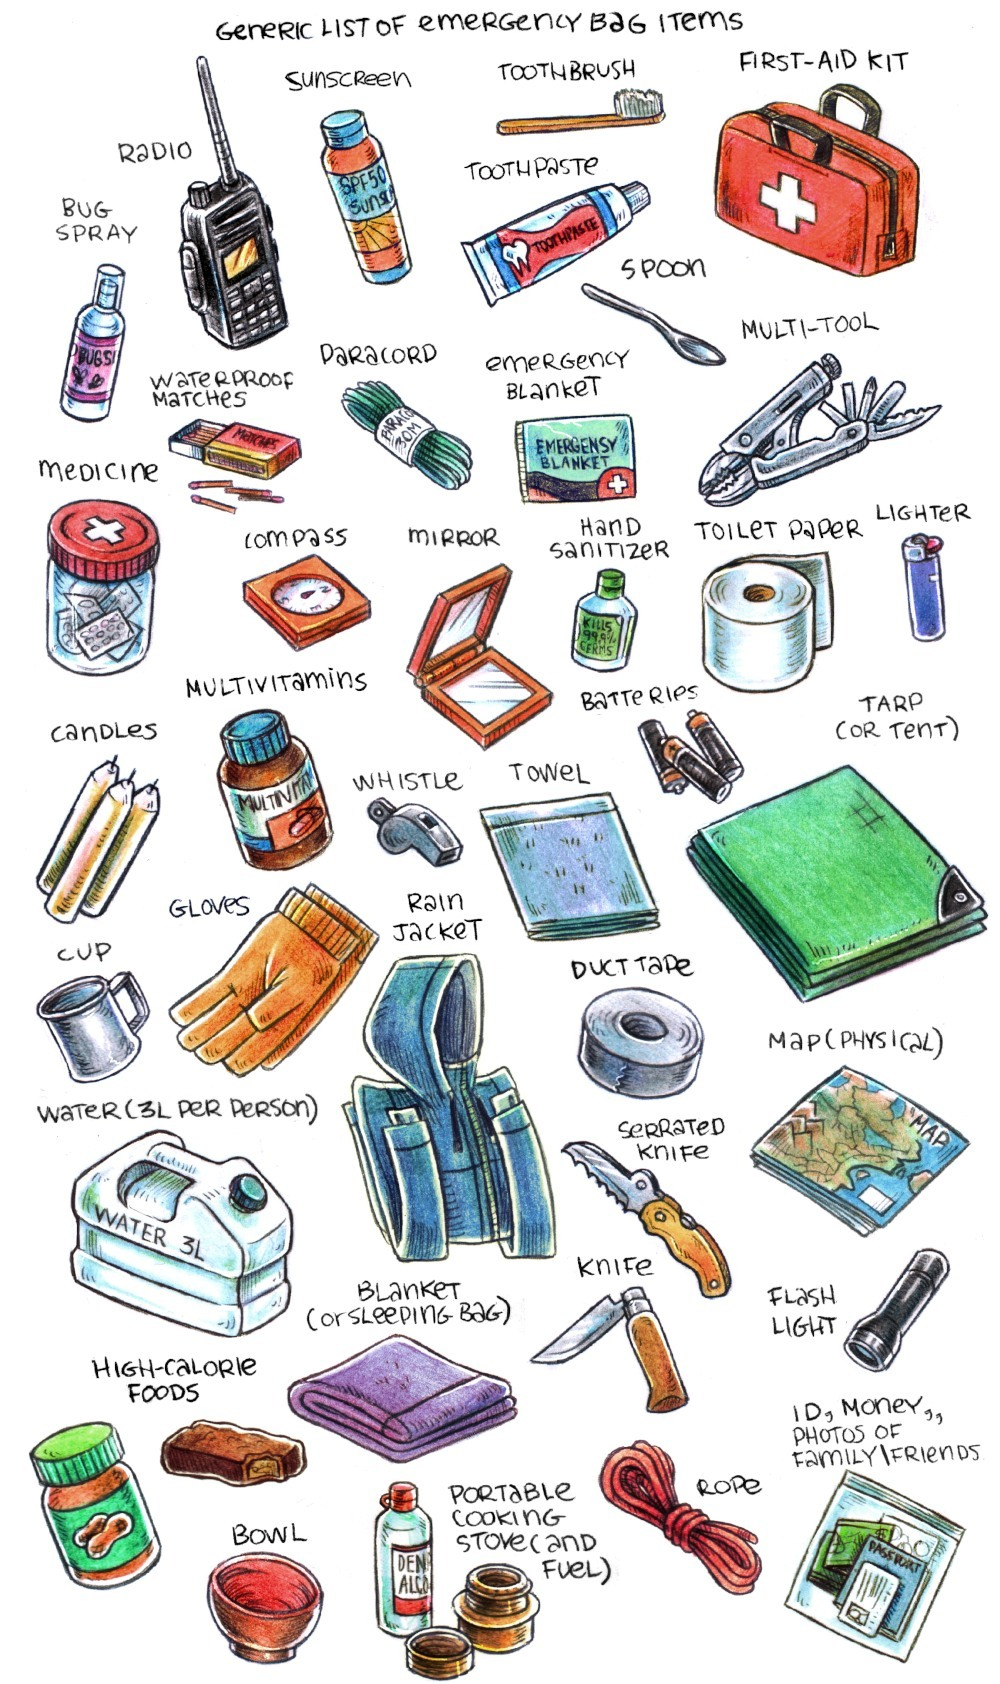
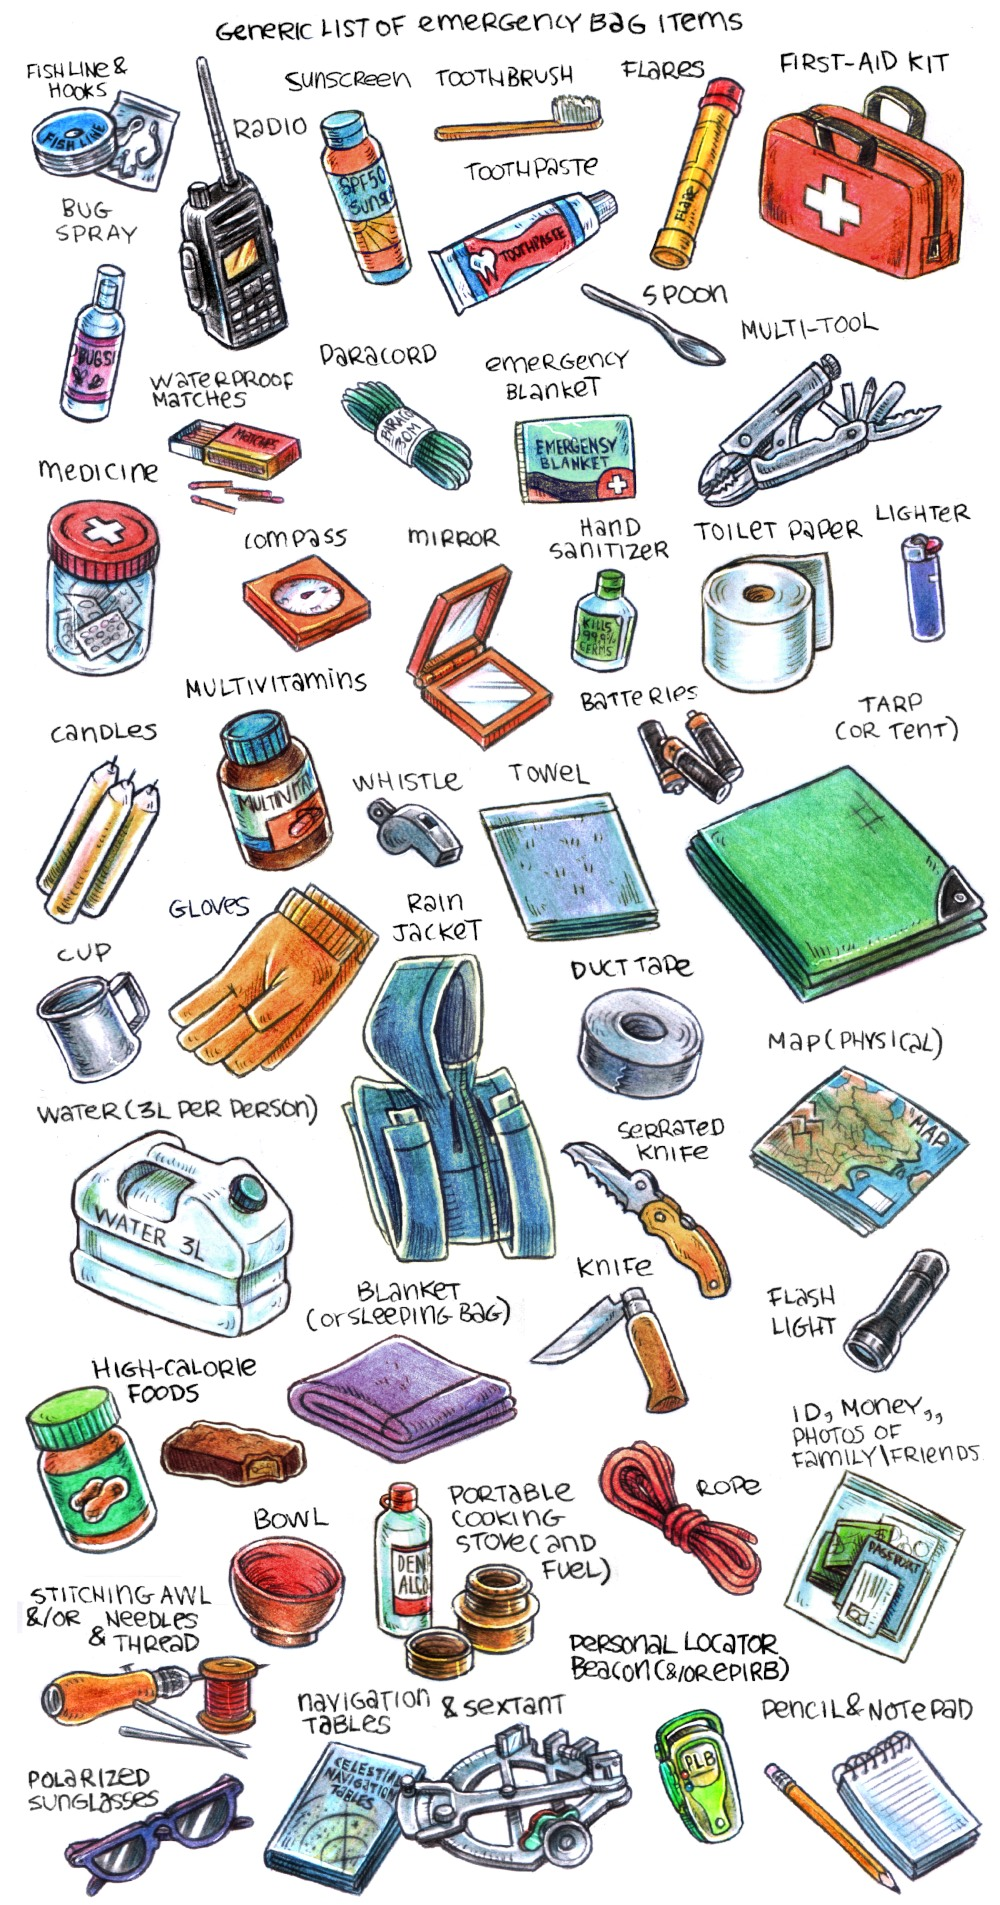
*

diff --git a/site/emergency_bag.html b/site/emergency_bag.html
@@ -28,13 +28,13 @@
     </nav>
     <div id='wrap'>
         <img src='../media/content/emergency_bag_02.jpg' loading ='lazy'>
-        <a style='width: 17%;height: 12%;top: 14%;left: 37%;' title="Link to dichotomic search table image" href="https://100r.co/site/ditch_bag.html" target="_blank"><span>Ditch Bag</span></a>
-        <p class='noprint'>An emergency bag, ditch bag(specific to boats), or "go-bag", contains emergency supplies for when it is necessary to leave the home/vessel in a hurry in the event of a disaster.<br>The bag ought to contain the minimum essentials. What is essential varies per person, and so it is important to pack what you need yourself, considering each item carefully, instead of following a list.<br>Plan for a minimum of 3 days' worth of supplies.<br>Some items ought to be shared by a group(ex: cooking stove, bucket toilet, etc), stored in additional ags.</p>
+        <a style='width: 17%;height: 9%;top: 9%;left: 37%;' title="Link to ditch bag page" href="https://100r.co/site/ditch_bag.html" target="_blank"><span>Ditch Bag</span></a>
+        <p class='noprint'>An emergency bag, ditch bag(specific to boats), or "go-bag", contains emergency supplies for when it is necessary to leave the home/vessel in a hurry in the event of a disaster.<br>The bag ought to contain the minimum essentials. What is essential varies per person, and so it is important to pack what you need yourself, considering each item carefully, instead of following a list.<br>Plan for a minimum of 3 days' worth of supplies.<br>How long you need to plan for depends on where you live, if there are evacuation centers nearby, or other dependable places where it is possible to re-supply. (On a boat, planning for longer is necessary).</p>
     </div>
-  <img src='../media/content/emergency_bag.jpg' alt='drawings of examples of items that sometimes come in an emergency bags: Radio, sunscreen, toothbrush, toothpaste, first-aid kit, spoon, multi-tool, bug spray, waterproof matches, paracord, emergency blanket, toilet paper, lighter, medicine, compass, mirror, hand sanitizer(or soap), batteries, tarp(or tent), multivitamins, candles, towel, whistle, gloves, rain jacket, duct tape, cup, water(3L per person), map(physical), blanket(or sleeping bag), knife, serrated knife, flashlight, rope, high-calorie foods, bowl, portable cooking stove(and fuel), ID, money, photos of family/friends.' loading ='lazy'>
-  <p class='noprint'>Radio, sunscreen, toothbrush, toothpaste, first-aid kit, spoon, multi-tool, bug spray, waterproof matches, paracord, emergency blanket, toilet paper, lighter, medicine, compass, mirror, hand sanitizer(or soap), batteries, tarp(or tent), multivitamins, candles, towel, whistle, gloves, rain jacket, duct tape, cup, water(3L per person), map(physical), blanket(or sleeping bag), knife, serrated knife, flashlight, rope, high-calorie foods, bowl, portable cooking stove(and fuel), ID, money, photos of family/friends.</p>
+  <img src='../media/content/emergency_bag.jpg' alt='drawings of examples of items that sometimes come in an emergency bags: Radio, sextant, navigation tables(for sextant), pencil, notepad, stitching awl(and or) needle and thread, polarized sunglasses, flares, fish line and hooks, personal location beacon (and or epirb), sunscreen, toothbrush, toothpaste, first-aid kit, spoon, multi-tool, bug spray, waterproof matches, paracord, emergency blanket, toilet paper, lighter, medicine, compass, mirror, hand sanitizer(or soap), batteries, tarp(or tent), multivitamins, candles, towel, whistle, gloves, rain jacket, duct tape, cup, water(3L per person), map(physical), blanket(or sleeping bag), knife, serrated knife, flashlight, rope, high-calorie foods, bowl, portable cooking stove(and fuel), ID, money, photos of family/friends.' loading ='lazy'>
+  <p class='noprint'>Radio, sextant, navigation tables(for sextant), pencil, notepad, stitching awl(and or) needle and thread, polarized sunglasses, flares, fish line and hooks, personal location beacon (and or epirb), sunscreen, toothbrush, toothpaste, first-aid kit, spoon, multi-tool, bug spray, waterproof matches, paracord, emergency blanket, toilet paper, lighter, medicine, compass, mirror, hand sanitizer(or soap), batteries, tarp(or tent), multivitamins, candles, towel, whistle, gloves, rain jacket, duct tape, cup, water(3L per person), map(physical), blanket(or sleeping bag), knife, serrated knife, flashlight, rope, high-calorie foods, bowl, portable cooking stove(and fuel), ID, money, photos of family/friends.</p>
 <img src='../media/content/emergency_bag_03.jpg' loading ='lazy'>
-  <p class='noprint'>A good bag design:<br>1) Keeps your hands free. 2) Distributes the weight in the bag well (on the hips). 3) Is waterproof.<br>Pack the items away, and place the bag near an entrance so that it is possible to grab it quickly when leaving.<br>Store critical items on your person rather than in the bag (identity documents, money, prescription medicine, etc), in case the bag goes missing, or is stolen.</p>
+  <p class='noprint'>Some items ought to be shared by a group, carried in additional bags (ex: cooking stove, bucket toilet etc).<br>A good bag design:<br>1) Keeps your hands free. 2) Distributes the weight in the bag well (on the hips). 3) Is waterproof.<br>Pack the items away, and place the bag near an entrance so that it is possible to grab it quickly when leaving.<br>Store critical items on your person rather than in the bag (identity documents, money, prescription medicine, etc), in case the bag goes missing, or is stolen.</p>
 </main>
 <footer>
     <div id='wrapfooter'>
